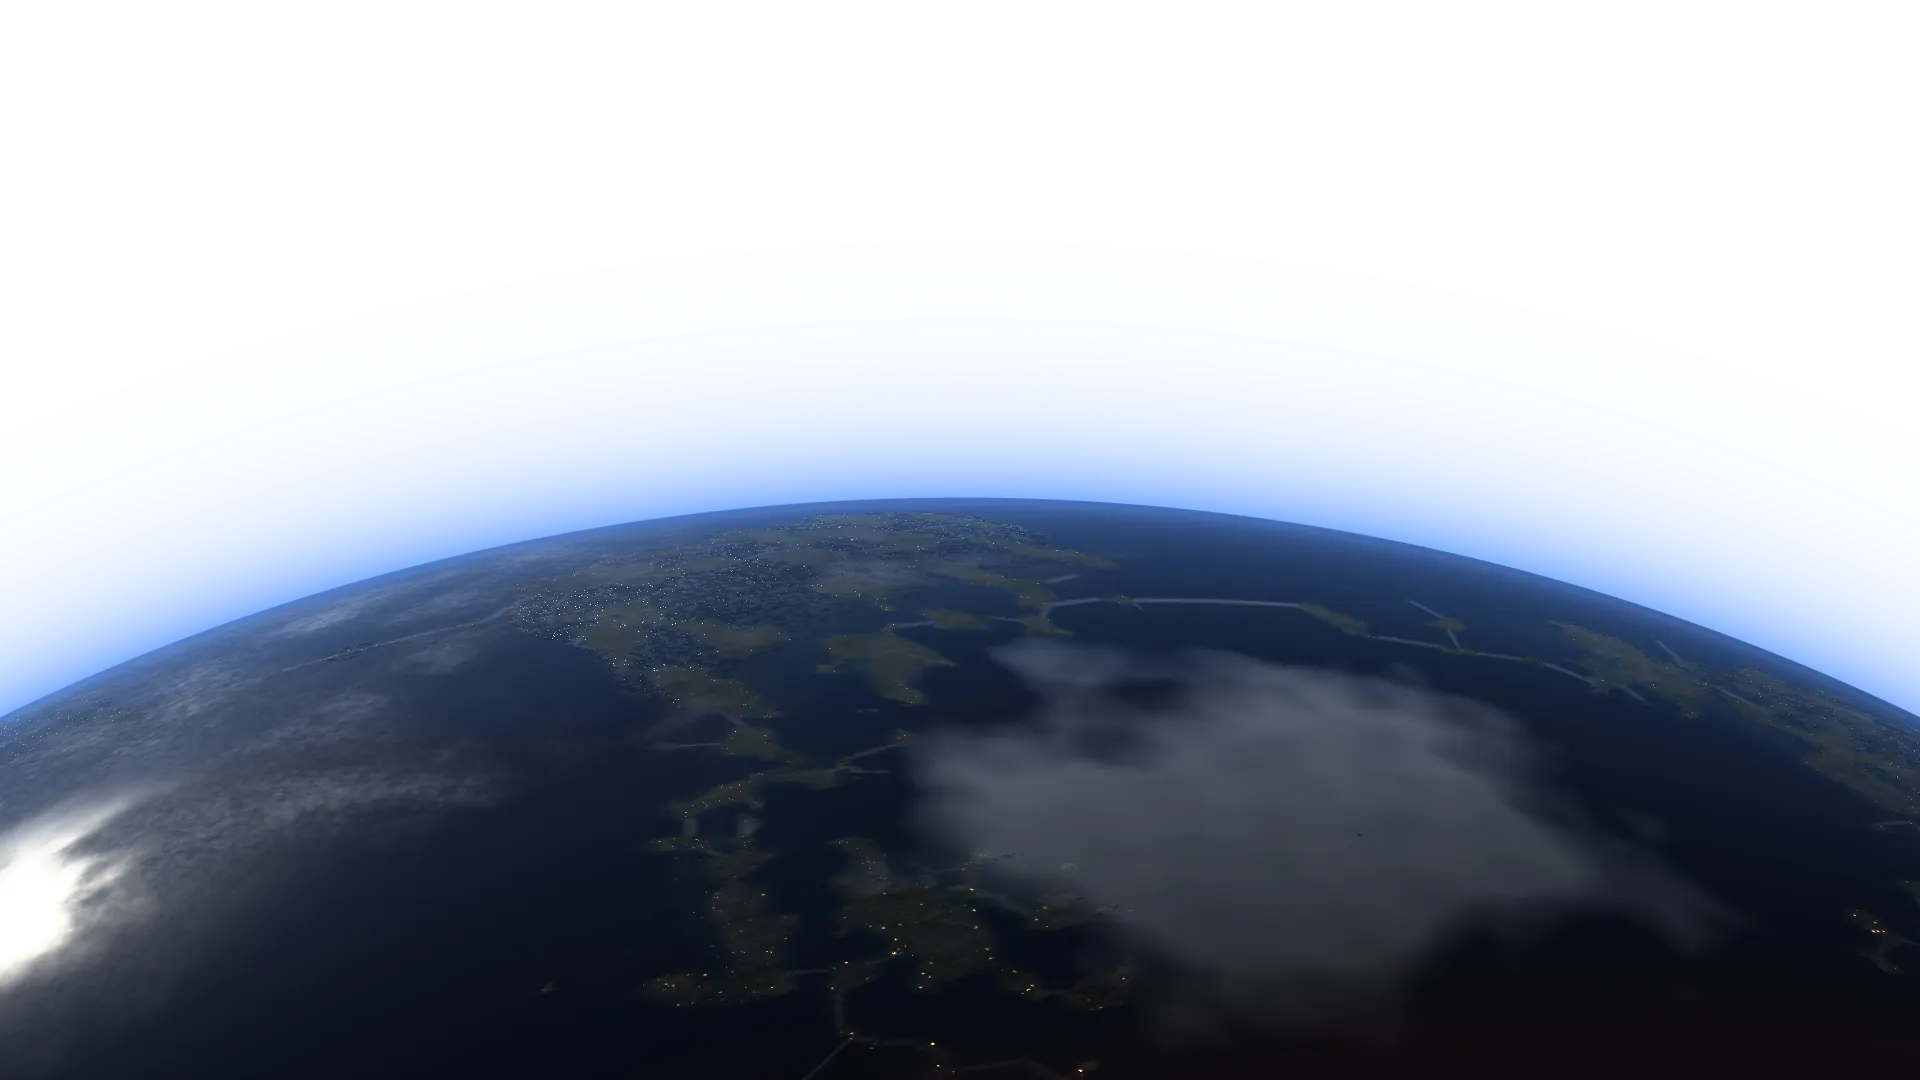
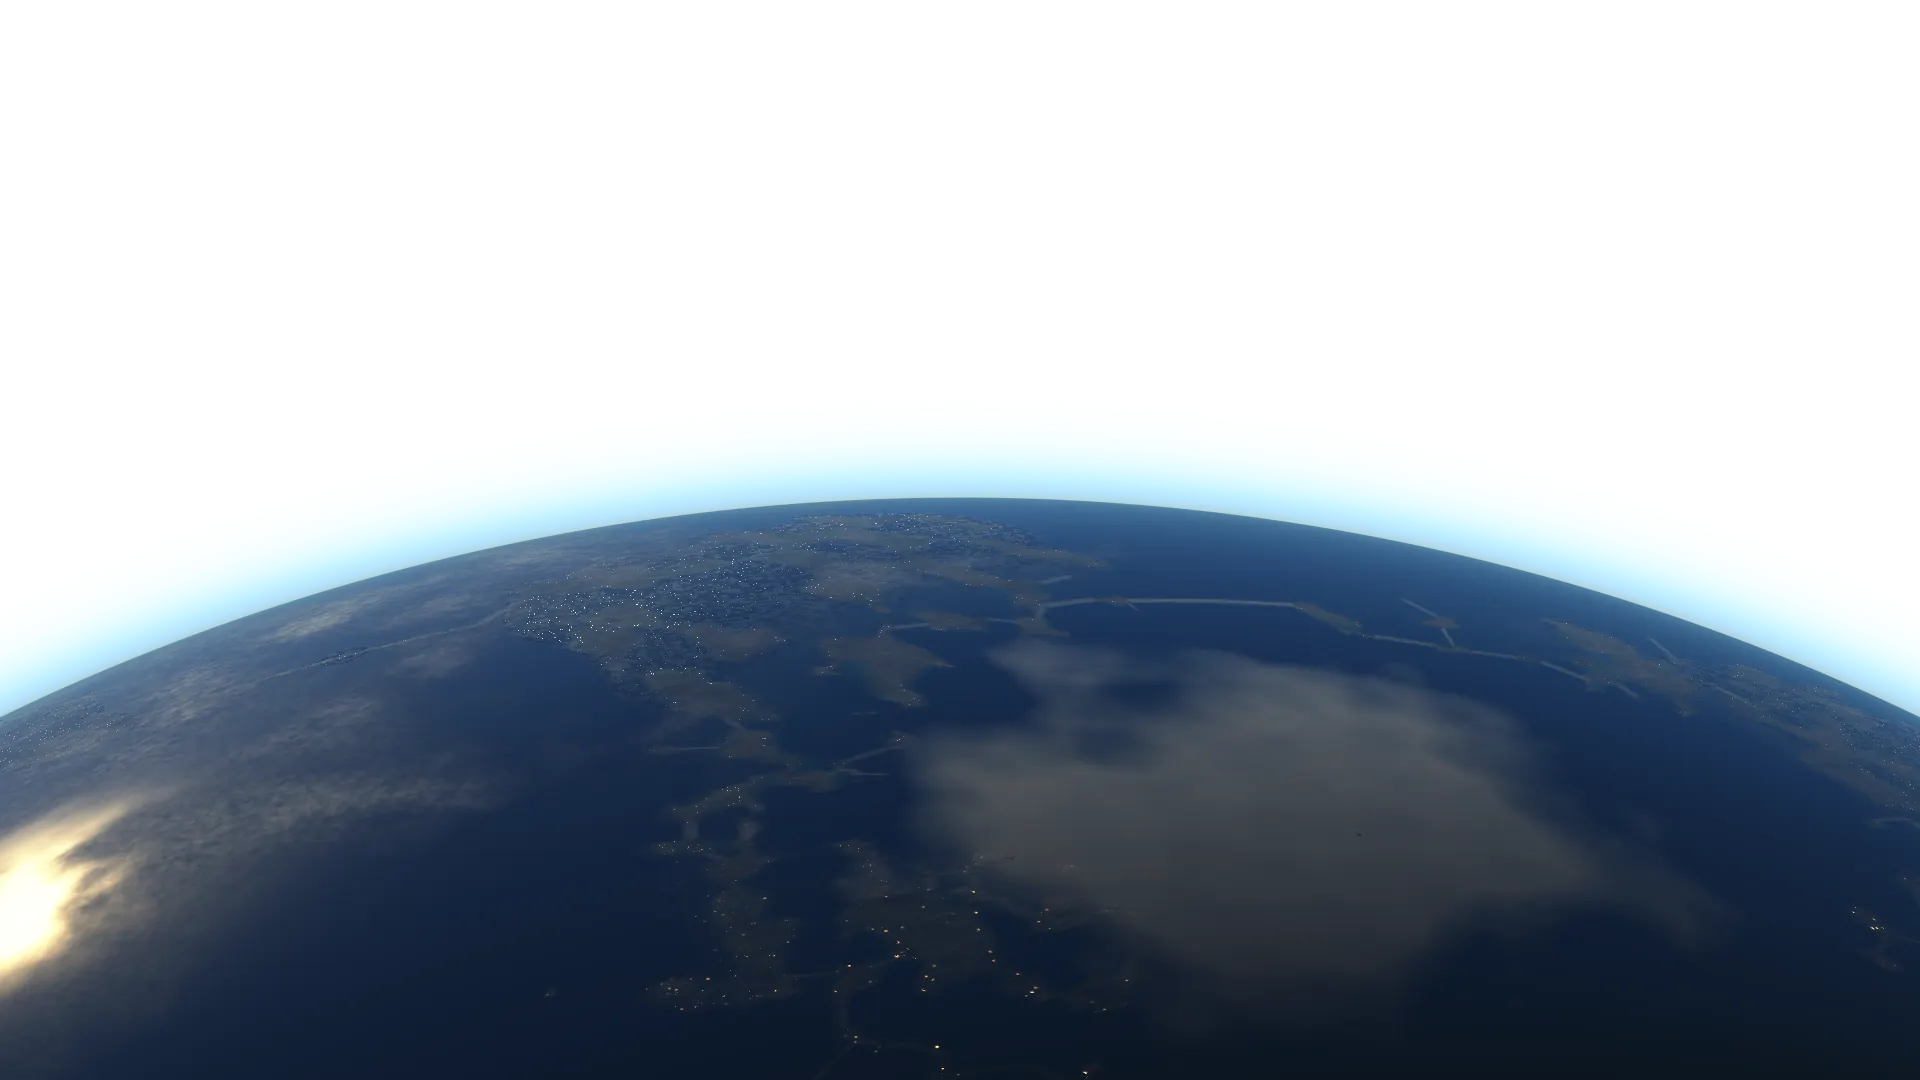
Bring the shared scattering to the hero planet

Changed region(s): [[0.0, 0.3667, 1.0, 1.0], [0.0, 0.7333, 0.0625, 0.9167], [0.4062, 0.9778, 0.4375, 1.0]]

diff --git a/planet-gl.js b/planet-gl.js
@@ -16,10 +16,9 @@
  *     soft terminator (smoothstep(-0.06, 0.22, N·L)) and a faint blue night
  *     ambient; airless rock 0.015 + 1.15·N·L plus a thin lit limb; a gas giant
  *     0.025 + N·L under limb darkening pow(mu, 0.35);
- *   - the air: a blue haze that thickens toward the limb, a rim light
- *     pow(1-mu, 2.6) on the lit side, a faint warm band on the terminator, an
- *     amber back-rim on the dark limb, and a halo outside the disc,
- *     exp(-(r-1)/thickness), strongest where the star shines;
+ *   - the air: real single scattering along each line of sight, Rayleigh and Mie, so
+ *     the limb is a thin blue line falling off into black, the sun's light reaches
+ *     the ground reddened by its path, and the planet's shadow lies in the air;
  *   - the sea catches the star (a wide lobe and a hard glint), clouds are a
  *     layer of their own that shades the ground beneath and is lit by the star
  *     itself, never a texture painted into the ground;
@@ -116,12 +115,84 @@ const GLSL_LIGHT = `
 const vec3 AIR0 = vec3(0.35, 0.6, 1.0);
 vec3 airTint(vec3 air){ return air / max(max(air.r, air.g), max(air.b, 1e-4)) / AIR0; }
 
-// The air seen edge-on, past the limb (premultiplied). rr: the distance from the
-// centre in radii (> 1); nh: the unit direction from the centre, in the view plane.
-vec4 orkHalo(float rr, vec3 nh, vec3 sun, vec3 air, float thick, float amount){
-  float lit = smoothstep(-0.35, 0.6, dot(nh, sun));
-  float a = exp(-(rr - 1.0) / thick) * lit * amount;
-  return vec4(air * a, a);
+// The air, as air: single scattering along the line of sight (Nishita 1993; the same
+// integral as GPU Gems 2 ch. 16 and Scratchapixel's sky). Rayleigh takes the blue out of
+// the light and throws it to the side, so the limb is a thin blue line that falls off into
+// black; what comes through a long path is what is left, orange. Nothing here is painted.
+// One sample of the sun's path per step, closed form: Schueler's Chapman approximation
+// (GPU Pro 3), which also puts the planet's own shadow in the air.
+const vec3 RAYLEIGH = vec3(0.175, 0.41, 1.0);             // 680, 550, 440 nm, as lambda^-4
+const float AIR_TAU = 0.14;                                // an Earth's vertical optical depth in blue
+const float AIR_SUN = 34.0;                                // the star's light, in the display's units
+const float MIE_G = 0.78;
+const int AIR_STEPS = 6;                                   // each side of the point nearest the ground
+
+float airH(float thick){ return thick * 0.32; }            // a body's "thick" is a look; this is its scale height
+vec3 airBeta(vec3 air, float H, float k){
+  vec3 g = airTint(air);
+  vec3 t = RAYLEIGH * g * g;                               // another air scatters its own colour, not a paler blue
+  return t / max(t.b, max(t.r, t.g)) * AIR_TAU * k / H;
+}
+// the air in a column, in scale heights, from h (scale heights up) toward a light at cos chi
+float chapman(float X, float h, float c){
+  float a = sqrt(X + h);
+  if (c >= 0.0) return a / (a * c + 1.0) * exp(-h);
+  float x0 = sqrt(max(1.0 - c * c, 0.0)) * (X + h);
+  float c0 = sqrt(x0);
+  return 2.0 * c0 * exp(min(X - x0, 40.0)) - a / (1.0 - a * c) * exp(-h);
+}
+// what is left of the star's light at the ground, for the sun at cos chi = day
+vec3 orkSunT(float day, vec3 air, float thick, float k, float mie){
+  if (k <= 0.0) return vec3(1.0);
+  float H = airH(thick);
+  vec3 b = airBeta(air, H, k);
+  float m = mie * 0.3 * AIR_TAU * k / H;
+  return exp(-(b + m * 0.2) * H * chapman(1.0 / H, 0.0, day) * 1.8);   // a touch more than the integral: the orange should read
+}
+// The air along a ray, in radii from the body's centre: ro near the body, rd its direction,
+// tHit where it meets the ground (a large number if it misses). Returns the light it adds,
+// premultiplied, a: what it dims behind it; T: what comes through.
+vec4 orkAir(vec3 ro, vec3 rd, float tHit, vec3 sun, vec3 air, float thick, float k, float mie, float amount, out vec3 T){
+  T = vec3(1.0);
+  float H = airH(thick);
+  float top = 1.0 + 7.0 * H;
+  float b = dot(ro, rd), disc = b * b - dot(ro, ro) + top * top;
+  if (disc <= 0.0 || k <= 0.0) return vec4(0.0);
+  float s = sqrt(disc), tA = -b - s, tB = min(-b + s, tHit);
+  if (tB <= tA) return vec4(0.0);
+  // a grazing ray has all its air at one point on a long chord: the steps crowd toward it
+  float tc = clamp(-b, tA, tB);
+  vec3 betaR = airBeta(air, H, k);
+  float betaM = mie * 0.3 * AIR_TAU * k / H;
+  float X = 1.0 / H, odR = 0.0, odM = 0.0;
+  vec3 sumR = vec3(0.0), sumM = vec3(0.0);
+  float n = float(AIR_STEPS);
+  for (int i = 0; i < 2 * AIR_STEPS; i++) {
+    bool first = i < AIR_STEPS;
+    float x = first ? (n - float(i) - 0.5) / n : (float(i) - n + 0.5) / n;
+    float e = first ? tA : tB;
+    float t = tc + (e - tc) * x * x * x;
+    float ds = abs(e - tc) * 3.0 * x * x / n;
+    if (ds < 1e-6) continue;
+    vec3 P = ro + rd * t;
+    float r = length(P);
+    float h = max(r - 1.0, 0.0) / H;
+    float rho = exp(-h), rhoM = exp(-h * 5.0);
+    odR += rho * ds * 0.5;
+    odM += rhoM * ds * 0.5;
+    float col = chapman(X, h, dot(P, sun) / r) * H;
+    vec3 tr = exp(-(betaR * (odR + col) + betaM * (odM + col * 0.2)));
+    sumR += rho * tr * ds;
+    sumM += rhoM * tr * ds;
+    odR += rho * ds * 0.5;
+    odM += rhoM * ds * 0.5;
+  }
+  vec3 tau = betaR * odR + betaM * odM;
+  T = exp(-tau);
+  float c = dot(rd, sun);
+  vec3 L = sumR * betaR * 0.0597 * (1.0 + c * c) + sumM * betaM * min(hgp(MIE_G, c), 16.0) * 0.0796;
+  L = 1.0 - exp(-L * AIR_SUN * amount);
+  return vec4(L, 1.0 - dot(T, vec3(0.3333)));
 }
 
 
@@ -140,20 +211,21 @@ vec3 orkTone(vec3 c){
 // what the night side shows here, before the night's own fade.
 // air: the colour the air scatters (Rayleigh: blue for N2/O2, tan for CO2 and dust);
 // airK: how thick it is (1: an Earth's worth); mie: the share of dust and haze that
-// scatters forward instead, in white.
+// scatters forward instead, in white; thick: its height. The air between here and the
+// viewer is orkAir's; what this keeps of it is the star's light as it arrives, reddened.
 vec3 orkTerrestrial(vec3 albedo, vec3 n, vec3 nl, vec3 sun, vec3 v,
                     float wet, float c, float cs, float cv, vec3 gl3, vec3 lights,
-                    vec3 air, float airK, float mie, vec3 shL, vec3 shD){
+                    vec3 air, float airK, float mie, float thick, vec3 shL, vec3 shD){
   float day = dot(n, sun);
   float k = clamp(airK, 0.05, 1.5);
   // the terminator is as soft as the air is thick: scattered light carries past it
   float dayK = smoothstep(-0.06 * k, 0.04 + 0.18 * k, day);
-  float mu = max(dot(n, v), 0.0);
+  vec3 sunT = orkSunT(max(day, -0.2), air, thick, airK, mie);
   vec3 T = airTint(air);
   vec3 A = T * vec3(0.32, 0.56, 0.97);                 // what the air scatters, in the recipe's own units
   float w = 0.06 * k;
   float lam = max((dot(nl, sun) + w) / (1.0 + w), 0.0) * smoothstep(-0.1, 0.02, day + 0.06 * k);
-  vec3 col = albedo * (0.04 + 1.25 * lam) * (1.0 - 0.55 * cs * (1.0 - c)) + vec3(0.004, 0.009, 0.024) * (1.0 - dayK);
+  vec3 col = albedo * (0.02 + 1.25 * lam * sunT) * (1.0 - 0.55 * cs * (1.0 - c)) + vec3(0.004, 0.009, 0.024) * (1.0 - dayK);
   // open water: a rough mirror (two lobes of waves), Fresnel-brightened toward the limb, and the sky in it
   if (wet * (1.0 - c) * dayK > 0.002) {
     vec3 H = normalize(sun + v);
@@ -165,7 +237,7 @@ vec3 orkTerrestrial(vec3 albedo, vec3 n, vec3 nl, vec3 sun, vec3 v,
     float d1 = a1 * a1 / (PI * t1 * t1);
     float d2 = a2 * a2 / (PI * t2 * t2);
     float spec = (d1 + 0.35 * d2) * F * 0.5;
-    col += wet * (1.0 - c) * (vec3(1.0, 0.93, 0.8) * spec * dayK + A * F * 0.55 * (0.05 + 0.75 * max(day, 0.0)) * dayK);
+    col += wet * (1.0 - c) * (vec3(1.0, 0.93, 0.8) * sunT * spec * dayK + A * F * 0.55 * (0.05 + 0.75 * max(day, 0.0)) * dayK);
   }
   // glints of glass and rooftops: the same mirror, in points
   if (gl3.x + gl3.y + gl3.z > 0.0) {
@@ -176,23 +248,7 @@ vec3 orkTerrestrial(vec3 albedo, vec3 n, vec3 nl, vec3 sun, vec3 v,
   }
   // cloud: lit by the star itself, a little past the terminator (it stands above the ground)
   float cl = 0.08 + 1.1 * max((day + 0.06) / 1.06, 0.0);
-  col = mix(col, vec3(0.95, 0.96, 1.0) * cl * (0.45 + 0.55 * cv), c);
-  // the air in front of it: in-scattered light grows with the airmass along the line of sight,
-  // so the limb brightens smoothly; it is only lit where the star shines
-  float path = min(1.0 / max(mu, 0.05), 12.0);
-  float scat = 1.0 - exp(-0.075 * airK * path);
-  float sunl = smoothstep(-0.3, 0.5, day);
-  col = mix(col, A * (0.05 + 0.8 * max(day + 0.1, 0.0)), clamp(scat * 0.9, 0.0, 1.0) * dayK);
-  col += A * 0.35 * scat * sunl * smoothstep(0.0, 0.4, 1.0 - mu);
-  // Mie: dust and haze throw the light forward, so the limb glows most with the star behind the body
-  if (mie > 0.0 && sunl > 0.0) {
-    float scatM = 1.0 - exp(-0.06 * airK * path);
-    float ph = min(hgp(0.7, dot(-sun, v)) / 0.28, 6.0);
-    col += vec3(0.95, 0.9, 0.84) * mie * 0.22 * scatM * ph * sunl;
-  }
-  // twilight: the terminator band takes the colour the air does not scatter (red-orange over blue air)
-  vec3 dusk = (vec3(1.0) - T * vec3(0.35, 0.6, 1.0)) * vec3(0.75, 0.5, 0.1) + vec3(0.0, 0.0, 0.07);
-  if (abs(day) < 0.4) col += dusk * exp(-day * day / 0.004) * (0.06 + 0.2 * scat) * (1.0 - c * 0.5) * airK;
+  col = mix(col, vec3(0.95, 0.96, 1.0) * orkSunT(day + 0.03, air, thick, airK, mie) * cl * (0.45 + 0.55 * cv), c);
   float night = 1.0 - smoothstep(-0.02, 0.3, day);
   col += lights * night;
   col += vec3(0.05, 0.06, 0.08) * c * night;
@@ -223,7 +279,6 @@ vec3 orkGas(vec3 albedo, vec3 n, vec3 sun, vec3 v, float shade, vec3 air, float 
   float mu = max(dot(n, v), 0.0);
   float lam = max((day + 0.1) / 1.1, 0.0);
   vec3 col = albedo * (0.025 + lam) * pow(mu, 0.35) * shade;
-  col += air * pow(1.0 - mu, 4.0) * smoothstep(-0.2, 0.5, day) * 0.3 * airK;
   return col;
 }
 
@@ -718,7 +773,7 @@ vec3 shadeTerrestrial(vec3 n, vec3 sun, vec3 v, vec3 nb, vec3 lb, float pxr){
       lights = mapLights * (1.0 - 0.85 * c);
     }
   }
-  return orkTerrestrial(albedo, n, nl, sun, v, wet * uGlint, c, cs, cv, gl3, lights, uAir, uAirP.z, uMie, uShineCol * uShine.w * 1.25, uShine.xyz);
+  return orkTerrestrial(albedo, n, nl, sun, v, wet * uGlint, c, cs, cv, gl3, lights, uAir, uAirP.z, uMie, uAirP.x, uShineCol * uShine.w * 1.25, uShine.xyz);
 }
 
 // ---- rock and ice -----------------------------------------------------------------
@@ -886,7 +941,7 @@ float ringShadow(vec3 p, vec3 sun, float pxr_inv){
 }
 `;
 
-/** noise, fbm, the equirectangular lookup, and the Orikaia light (orkTerrestrial, orkRock, orkGas, orkStar, orkHalo, orkRing). No uniforms. */
+/** noise, fbm, the equirectangular lookup, and the Orikaia light (orkTerrestrial, orkRock, orkGas, orkStar, orkAir, orkRing). No uniforms. */
 export const PLANET_LIGHT_GLSL = GLSL_CORE + GLSL_RINGGEO + GLSL_LIGHT;
 /** the above, plus the ring's uniforms and ringAt(rr): for a caller that draws the ring itself */
 export const PLANET_RING_GLSL = PLANET_LIGHT_GLSL + GLSL_RING;
@@ -942,11 +997,17 @@ void main(){
     float shade = 1.0;
 #endif
     ball = vec4(planetColor(n, sun, v, nb, pxr, shade), 1.0) * edge;
+    if (uKind >= 2 && uAirP.y > 0.0) {
+      vec3 T;
+      vec4 air = orkAir(vec3(vP, 0.0), -v, -n.z, sun, uAir, uAirP.x, uAirP.z, uMie, uAirP.y, T);
+      ball.rgb = ball.rgb * T + air.rgb * edge;
+    }
   }
   vec4 under = vec4(0.0);
   if (uKind >= 2 && uAirP.y > 0.0 && d > 1.0 - 1.5 * pxr) {
-    // the air seen edge-on, past the limb (and under the limb's own anti-aliased edge)
-    under = orkHalo(max(d, 1.0), nh / max(d, 1e-4), sun, uAir, uAirP.x, uAirP.y);
+    // the air past the limb (and under the limb's own anti-aliased edge)
+    vec3 T;
+    under = orkAir(vec3(vP * max(d, 1.0) / max(d, 1e-4), 0.0), -v, 1e6, sun, uAir, uAirP.x, uAirP.z, uMie, uAirP.y, T);
   }
   vec4 front = vec4(0.0);
 #if !defined(KIND) || KIND == 3
@@ -1554,7 +1615,7 @@ export function createPlanetLayer(canvas) {
         gl.uniform3fv(u.uSun, norm(it.sun));
         gl.uniform1f(u.uAlpha, it.alpha ?? 1);
         const ringed = !!(it.ring && b.rings);
-        gl.uniform1f(u.uFrame, ringed ? Math.max(b.rings.outer * 1.02, 1.15) : b.atm.halo > 0 ? 1 + Math.min(b.atm.thick * 7, 0.5) : 1.02);
+        gl.uniform1f(u.uFrame, ringed ? Math.max(b.rings.outer * 1.02, 1.15) : b.atm.halo > 0 ? 1 + Math.min(b.atm.thick * 3.2, 0.5) : 1.02);
         gl.drawArrays(gl.TRIANGLE_STRIP, 0, 4);
       }
     },

diff --git a/concept/hero-planet.js b/concept/hero-planet.js
@@ -49,7 +49,7 @@ export function startPlanet(hero, canvas, reduced) {
   const dpr = Math.min(window.devicePixelRatio || 1, 1.5);
   let W = 0, H = 0, ready = false, seen = true, moving = !reduced;
 
-  planet.define('prime', { kind: 'terrestrial', maps: MAPS, flat: [5 / 255, 14 / 255, 33 / 255], cloud: true, frame: FRAME });
+  planet.define('prime', { kind: 'terrestrial', maps: MAPS, flat: [5 / 255, 14 / 255, 33 / 255], cloud: true, frame: FRAME, atm: { halo: 0.42 } });
 
   const draw = (seconds) => {
     if (!ready || !W) return;
